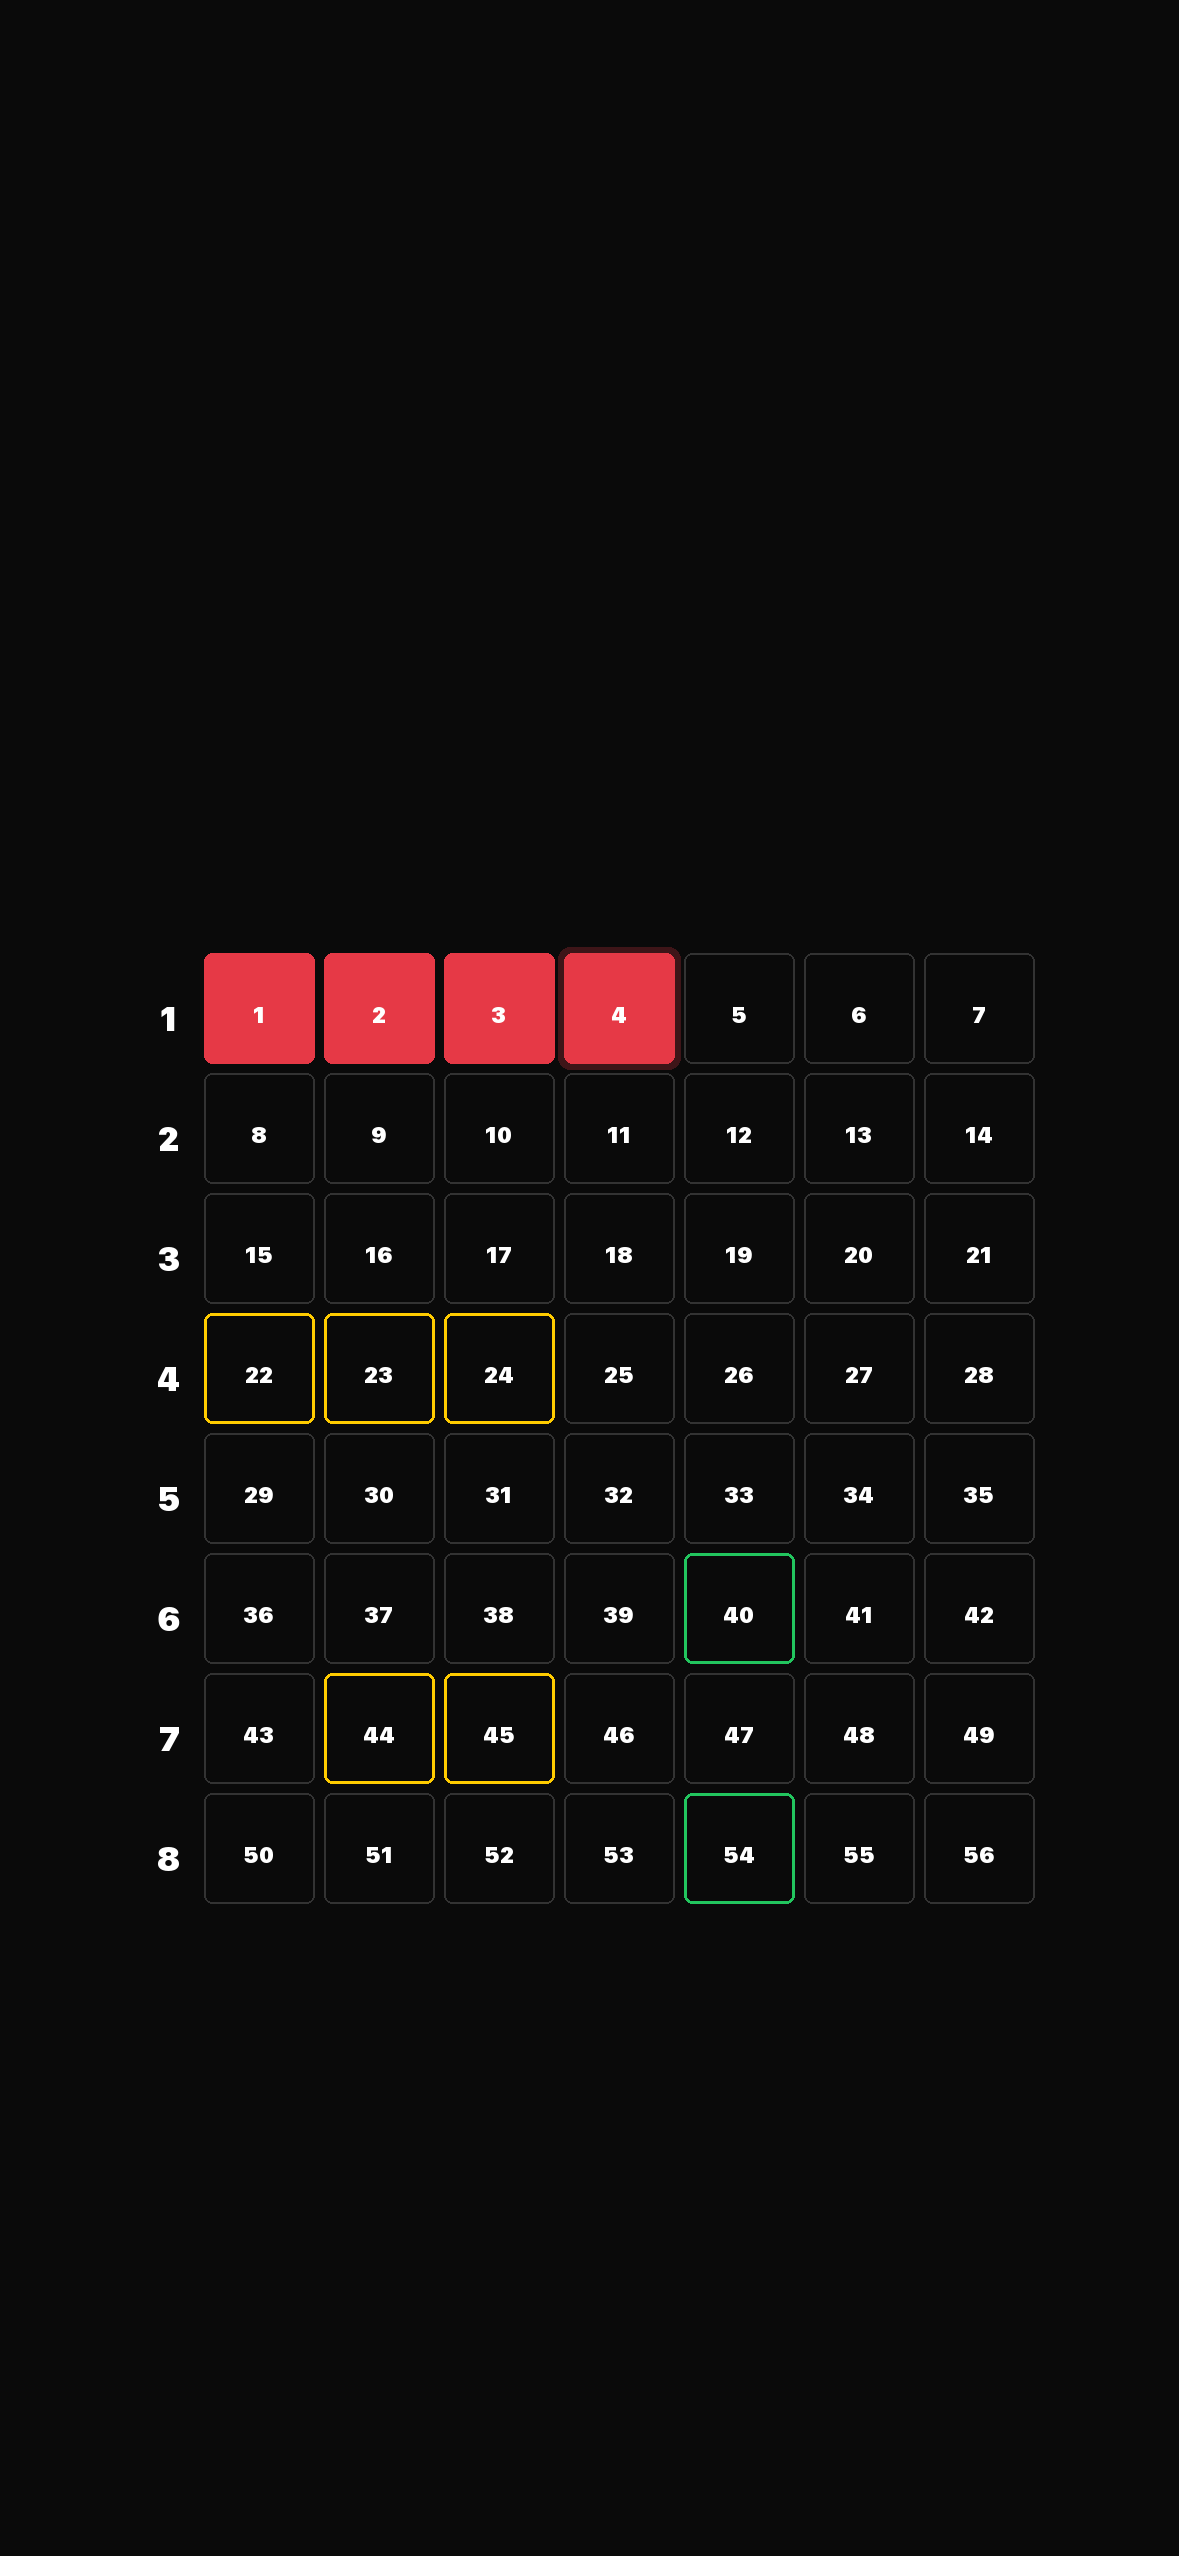
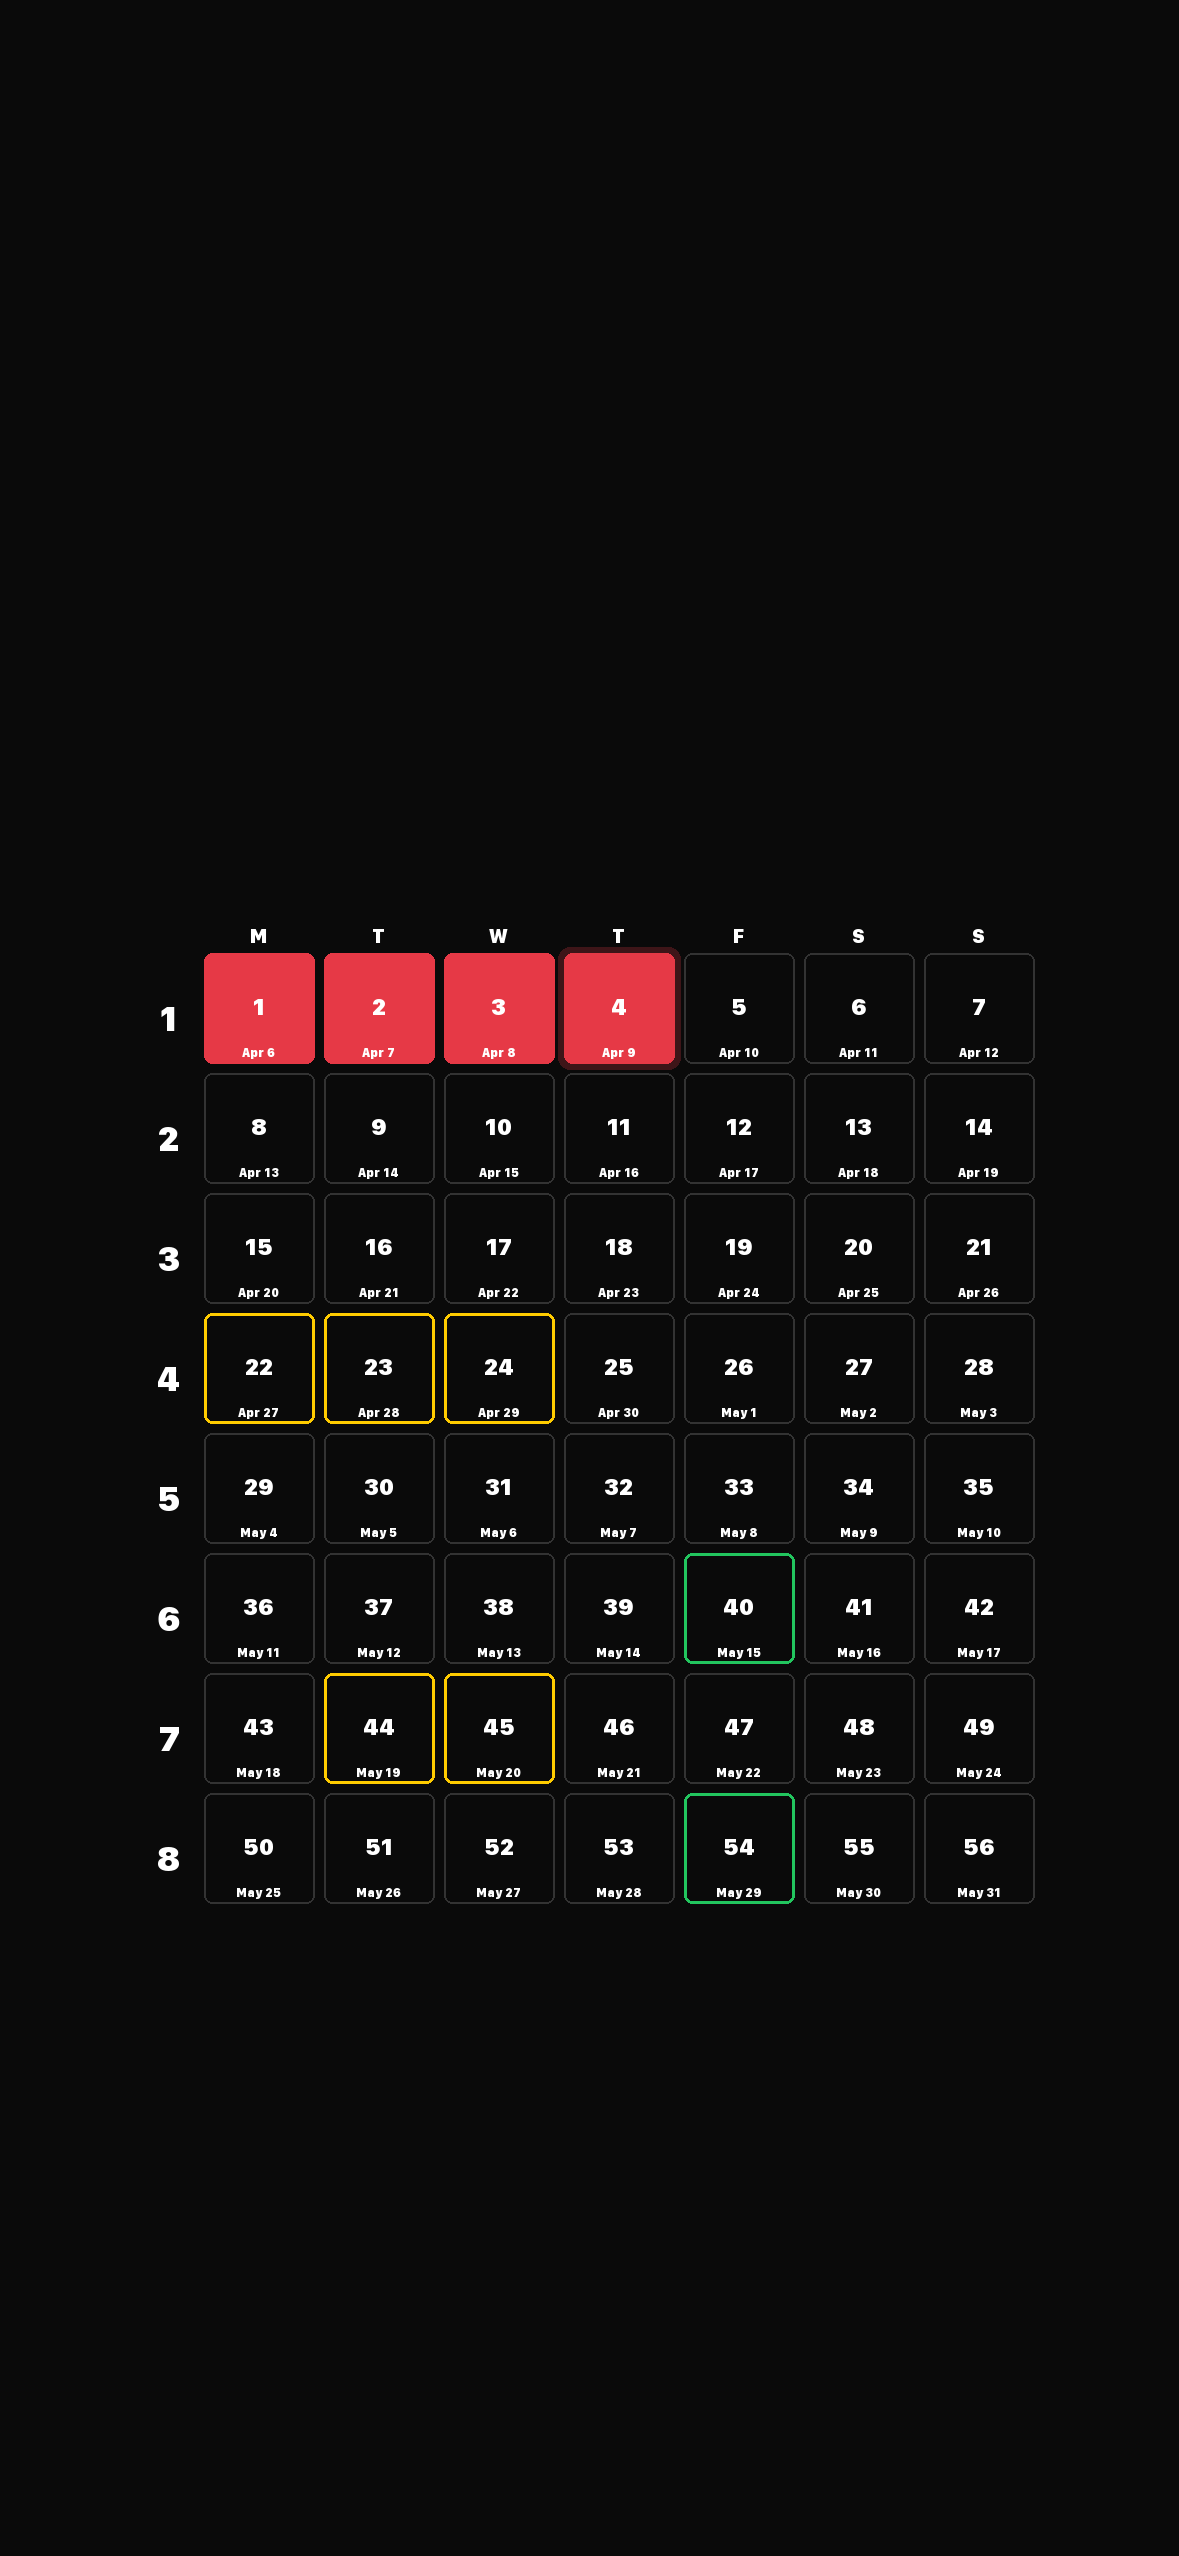
dow headers on top, date inside boxes

diff --git a/scripts/generate-wallpaper.py b/scripts/generate-wallpaper.py
@@ -71,6 +71,22 @@ def generate_wallpaper(output_path=None):
         ly = y + (square_size - th) // 2
         draw.text((lx, ly), label, fill=(255, 255, 255, 120), font=row_font)
     
+    # Draw day-of-week headers above the grid
+    dow_labels = ["M", "T", "W", "T", "F", "S", "S"]
+    try:
+        header_font = ImageFont.truetype("/System/Library/Fonts/SFCompact.ttf", 20)
+    except:
+        try:
+            header_font = ImageFont.truetype("/System/Library/Fonts/Helvetica.ttc", 20)
+        except:
+            header_font = ImageFont.load_default()
+    
+    for c, label in enumerate(dow_labels):
+        hx = start_x + c * (square_size + gap)
+        bbox = draw.textbbox((0, 0), label, font=header_font)
+        tw = bbox[2] - bbox[0]
+        draw.text((hx + (square_size - tw) // 2, start_y - 30), label, fill=(255, 255, 255, 80), font=header_font)
+    
     # Draw grid
     for i in range(TOTAL_DAYS):
         row = i // GRID_COLS
@@ -109,26 +125,43 @@ def generate_wallpaper(output_path=None):
             # Remaining - outline only
             draw.rounded_rectangle([x, y, x + square_size, y + square_size], radius=8, outline=OUTLINE, width=2)
         
-        # Day number
+        # Day number (centered)
         try:
             font = ImageFont.truetype("/System/Library/Fonts/SFCompact.ttf", 24)
+            tiny_font = ImageFont.truetype("/System/Library/Fonts/SFCompact.ttf", 12)
         except:
             try:
                 font = ImageFont.truetype("/System/Library/Fonts/Helvetica.ttc", 24)
+                tiny_font = ImageFont.truetype("/System/Library/Fonts/Helvetica.ttc", 12)
             except:
                 font = ImageFont.load_default()
+                tiny_font = ImageFont.load_default()
         
         text = str(day)
         bbox = draw.textbbox((0, 0), text, font=font)
         tw = bbox[2] - bbox[0]
         th = bbox[3] - bbox[1]
         tx = x + (square_size - tw) // 2
-        ty = y + (square_size - th) // 2
+        ty = y + (square_size - th) // 2 - 8  # shift up to make room for date
         
         if day < current_day or day == current_day:
             draw.text((tx, ty), text, fill=(255, 255, 255, 220), font=font)
         else:
             draw.text((tx, ty), text, fill=(255, 255, 255, 60), font=font)
+        
+        # Date label (e.g. "Apr 6") at bottom of box
+        actual_date = START_DATE + timedelta(days=i)
+        date_str = actual_date.strftime("%b %-d")
+        
+        bbox2 = draw.textbbox((0, 0), date_str, font=tiny_font)
+        tw2 = bbox2[2] - bbox2[0]
+        tx2 = x + (square_size - tw2) // 2
+        ty2 = y + square_size - 18
+        
+        if day < current_day or day == current_day:
+            draw.text((tx2, ty2), date_str, fill=(255, 255, 255, 100), font=tiny_font)
+        else:
+            draw.text((tx2, ty2), date_str, fill=(255, 255, 255, 40), font=tiny_font)
     
     if output_path is None:
         output_path = os.path.expanduser("~/.openclaw/workspace/countdown-wallpaper.png")
